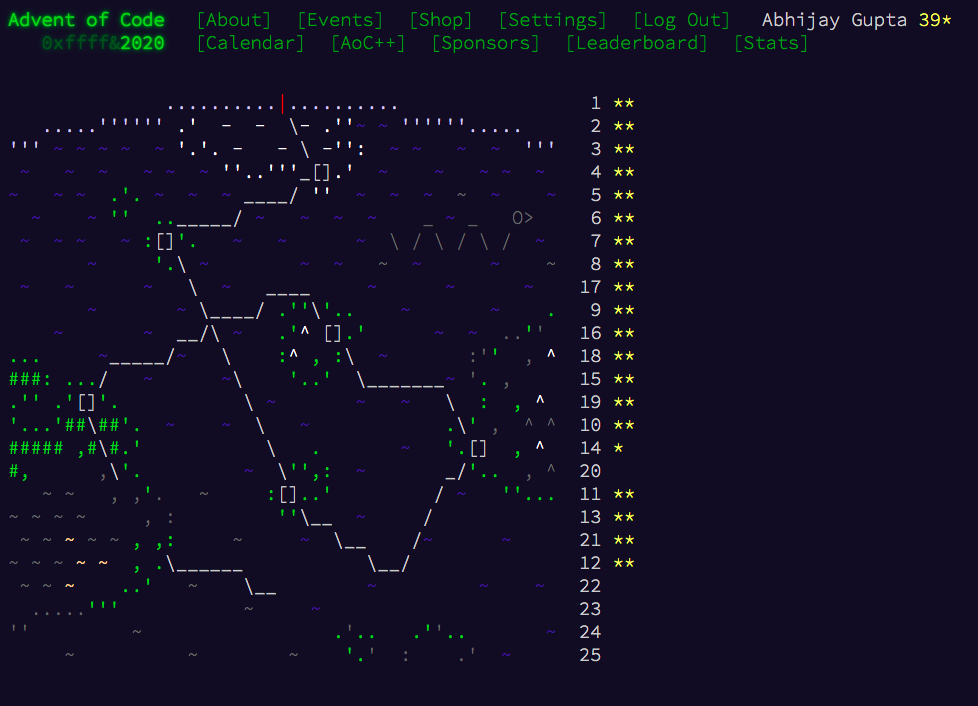
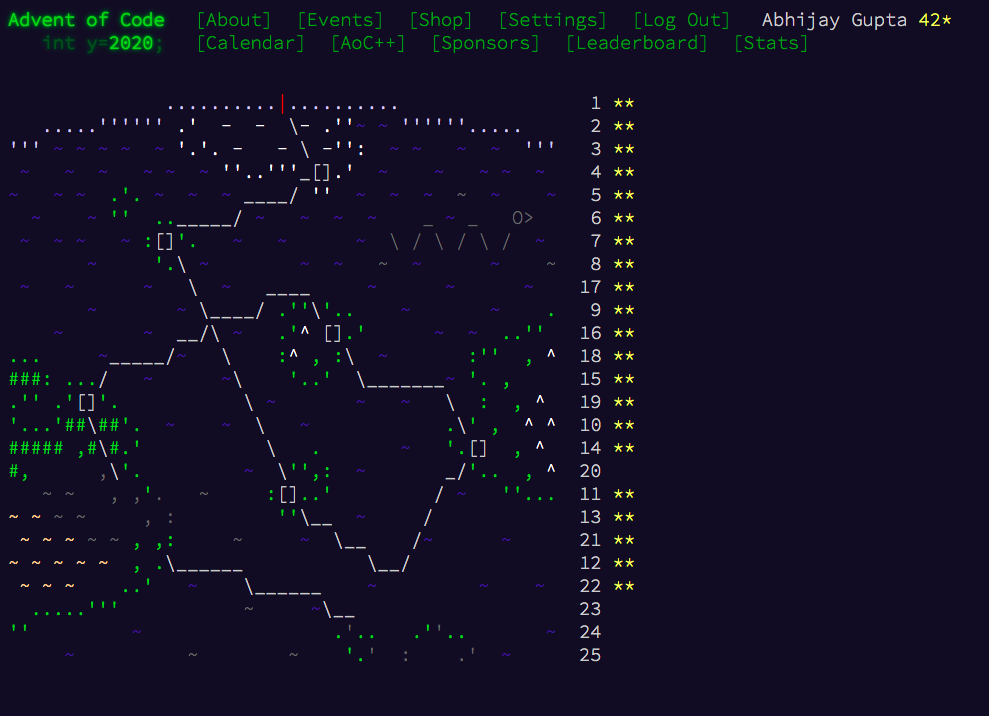
Solve Day 22: Crab Combat (#26)

diff --git a/Day-22/advent-22.py b/Day-22/advent-22.py
@@ -1,0 +1,95 @@
+"""
+URL for challenge: https://adventofcode.com/2020/day/22
+"""
+
+
+from collections import deque
+from itertools import islice
+
+
+def process_input():
+    f = open("advent-22-input.txt")
+    p1_cards, p2_cards = deque(), deque()
+    idx, puzzle_input = 0, f.readlines()[1:]
+    for line in puzzle_input:
+        if line != '\n':
+            p1_cards.append(int(line.strip()))
+            idx += 1
+        else:
+            break
+
+    for line in puzzle_input[idx+2:]:
+        p2_cards.append(int(line.strip()))
+
+    return p1_cards, p2_cards
+
+
+def part1():
+    p1_cards, p2_cards = process_input()
+    while p1_cards and p2_cards:
+        p1_top, p2_top = p1_cards.popleft(), p2_cards.popleft()
+        if p1_top > p2_top:
+            p1_cards.extend([p1_top, p2_top])
+        else:
+            p2_cards.extend([p2_top, p1_top])
+
+    return calculate_score(p1_cards if p1_cards else p2_cards)
+
+
+def part2():
+    p1_cards, p2_cards = process_input()
+    winner_deck = p1_cards if play_game(p1_cards, p2_cards) == 1 else p2_cards
+    return calculate_score(winner_deck)
+
+
+def calculate_score(winner_deck):
+    score, num_cards = 0, len(winner_deck)
+    for card in winner_deck:
+        score += card * num_cards
+        num_cards -= 1
+
+    return score
+
+
+def play_game(p1_cards, p2_cards):
+    previous_configs = set()
+    p1_num_cards, p2_num_cards = len(p1_cards), len(p2_cards)
+    while p1_cards and p2_cards:
+        current_config = (tuple(p1_cards), tuple(p2_cards))
+        if current_config in previous_configs:
+            return 1
+
+        previous_configs.add(current_config)
+        p1_top, p2_top = p1_cards.popleft(), p2_cards.popleft()
+        p1_num_cards -= 1
+        p2_num_cards -= 1
+
+        if p1_num_cards >= p1_top and p2_num_cards >= p2_top:
+            subgame_p1_cards = deque(islice(p1_cards, p1_top))
+            subgame_p2_cards = deque(islice(p2_cards, p2_top))
+            winner = play_game(subgame_p1_cards, subgame_p2_cards)
+        else:
+            winner = 1 if p1_top > p2_top else 2
+
+        if winner == 1:
+            p1_cards.extend([p1_top, p2_top])
+            p1_num_cards += 2
+        else:
+            p2_cards.extend([p2_top, p1_top])
+            p2_num_cards += 2
+
+    return winner
+
+
+def run():
+    chall = int(input("Please enter either 1 or 2 for the challenges: "))
+    if chall == 1:
+        print(part1())
+    elif chall == 2:
+        print(part2())
+    else:
+        print("You need to enter either 1 or 2")
+        exit(1)
+
+
+run()
